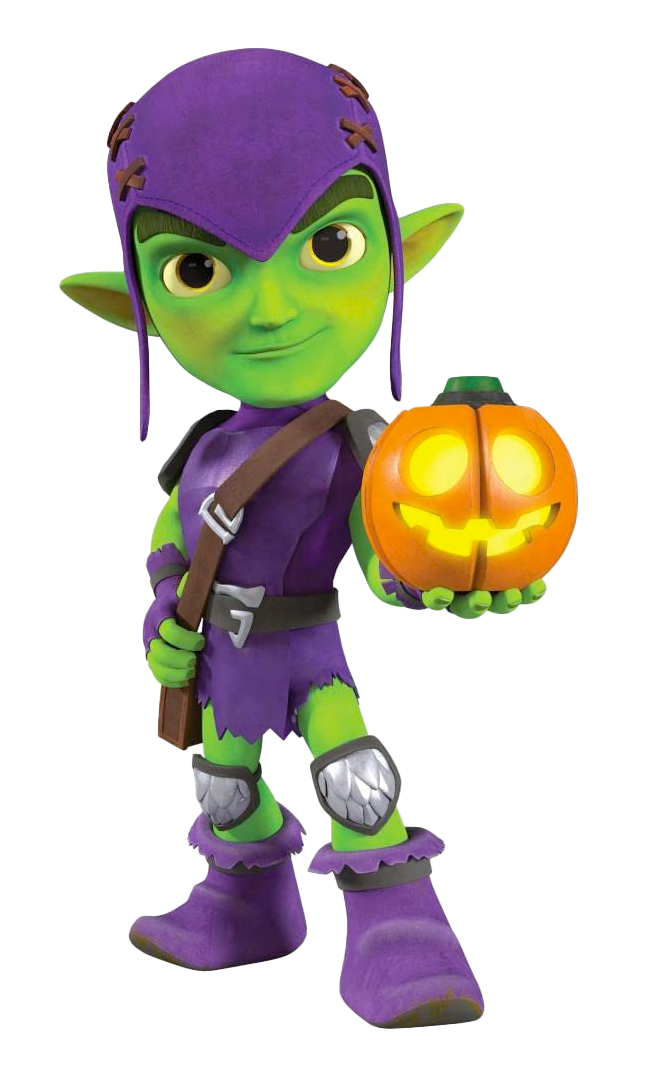
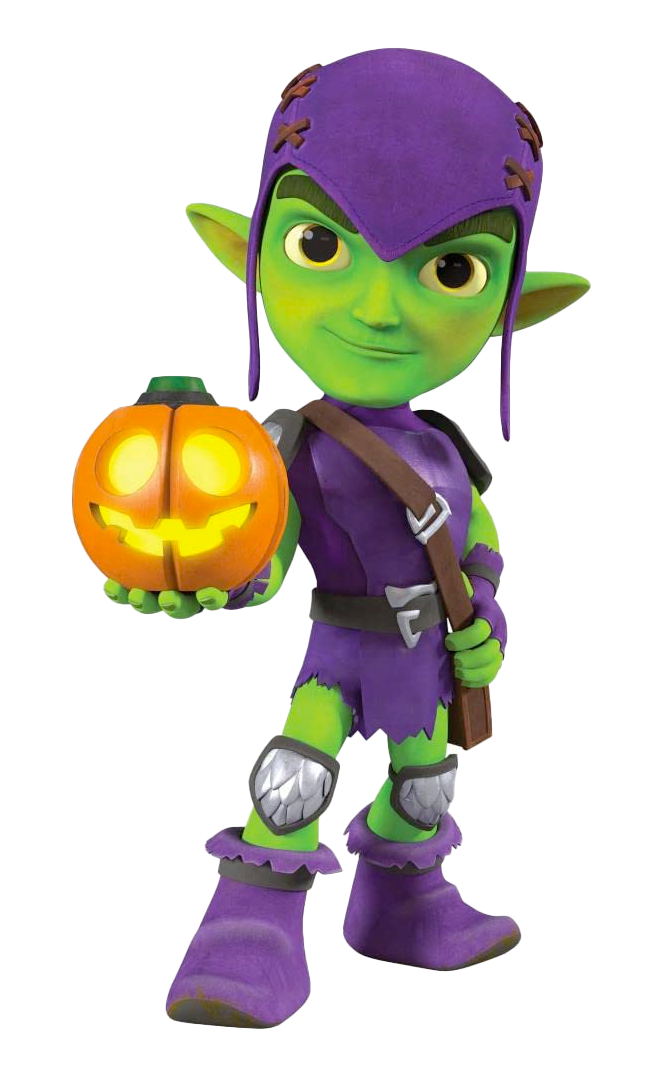
bugfix

diff --git a/TP3/css/style.css b/TP3/css/style.css
@@ -9,8 +9,10 @@
 
 body {
     width: 1280px;
-    height: 8968px;
+    height: 100vh;
     background-color: #000;
+    display: flex;
+    flex-direction: column;
 }
 
 header {}
@@ -273,8 +275,8 @@ header {}
     width: 553px;
     height: 921px;
     background-image: url("../images/untitled-3-1.png");
-    background-size: contain;
-    transform: scaleX(-1);
+    background-size: cover;
+
 }
 
 .tarjeta-duende-verde {
@@ -283,7 +285,7 @@ header {}
     height: 455.131px;
     position: relative;
     left: 90.28px;
-    bottom: 1500px;
+    bottom: 1505px;
     background-image: url("../images/image-16.png");
     background-size: cover;
 }
@@ -955,4 +957,8 @@ footer {
     position: relative;
     top: -950px;
     z-index: -1;
+}
+
+.vacio {
+    height: 100px;
 }

diff --git a/TP3/index.html b/TP3/index.html
@@ -234,16 +234,11 @@
         </div>
 
         <div class="redes-sociales"></div>
+
+        <div class="vacio"></div>
     </footer>
     <script src="js/scroll.js"></script>
-    <script type="text/javascript">
-        window.addEventListener("scroll", function () {
-            var header = document.querySelector(".div-header");
-            var iconoSpidey = document.querySelector(".div1");
-            header.classList.toggle("abajo", window.scrollY > 0);
-            iconoSpidey.classList.toggle("abajo", window.scrollY > 0);
-        })
-    </script>
+    <script src="js/nav-animation.js"></script>
 </body>
 </div>
 

diff --git a/TP3/js/nav-animation.js b/TP3/js/nav-animation.js
@@ -1,0 +1,6 @@
+window.addEventListener("scroll", function () {
+    var header = document.querySelector(".div-header");
+    var iconoSpidey = document.querySelector(".div1");
+    header.classList.toggle("abajo", window.scrollY > 0);
+    iconoSpidey.classList.toggle("abajo", window.scrollY > 0);
+})
